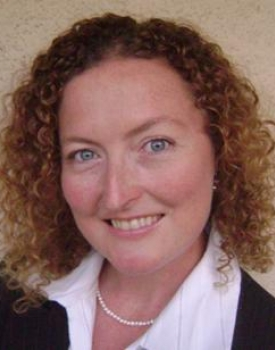
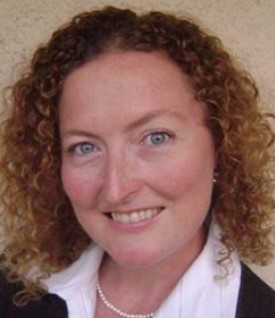
smaller stockton pic

diff --git a/styles/styles.scss b/styles/styles.scss
@@ -162,7 +162,12 @@ b {
 .mentor-quotes {
     img {
         border-radius: 40px;
-        margin-bottom: 30px;
+        margin-bottom: 20px;
+        width: 175px;
+    }
+    
+    .row {
+        margin-top: 30px;
     }
 }
 

diff --git a/styles/styles.css b/styles/styles.css
@@ -139,7 +139,12 @@ b {
 
 .mentor-quotes img {
   border-radius: 40px;
-  margin-bottom: 30px;
+  margin-bottom: 20px;
+  width: 175px;
+}
+
+.mentor-quotes .row {
+  margin-top: 30px;
 }
 
 .quotes-container {
